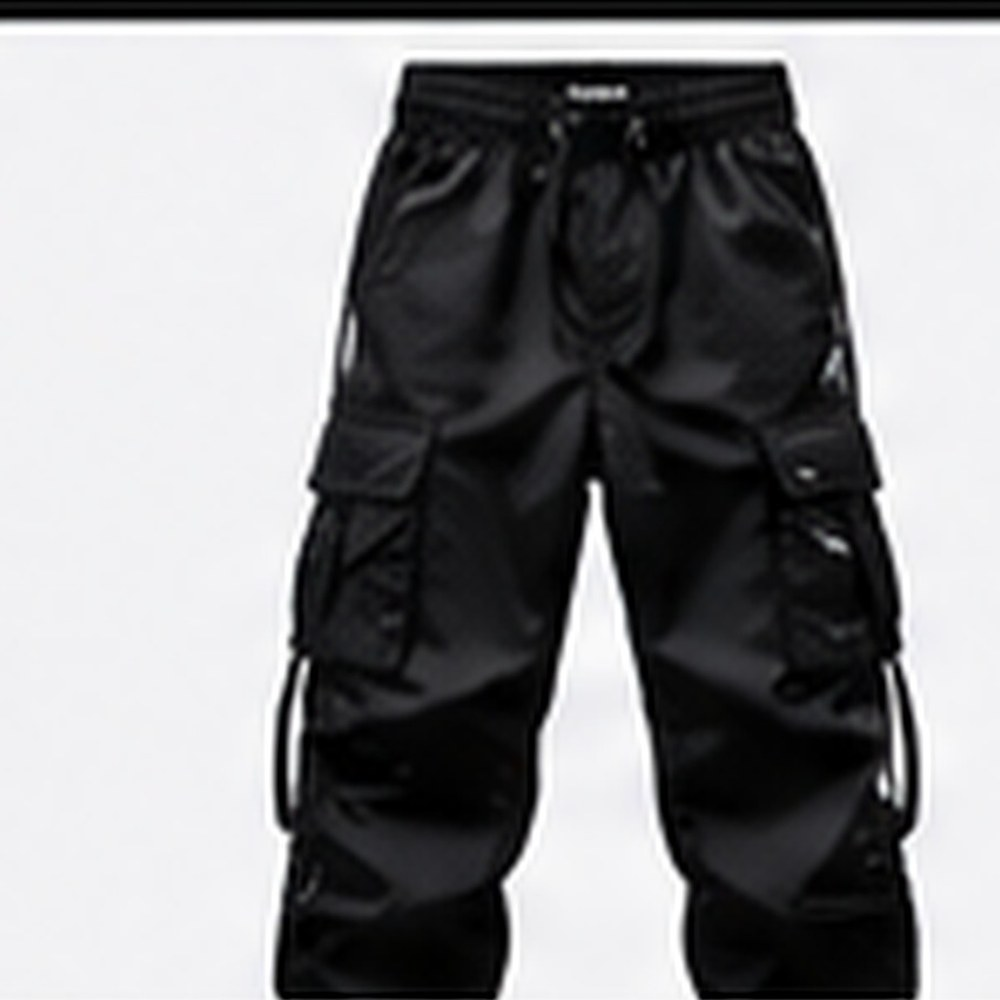
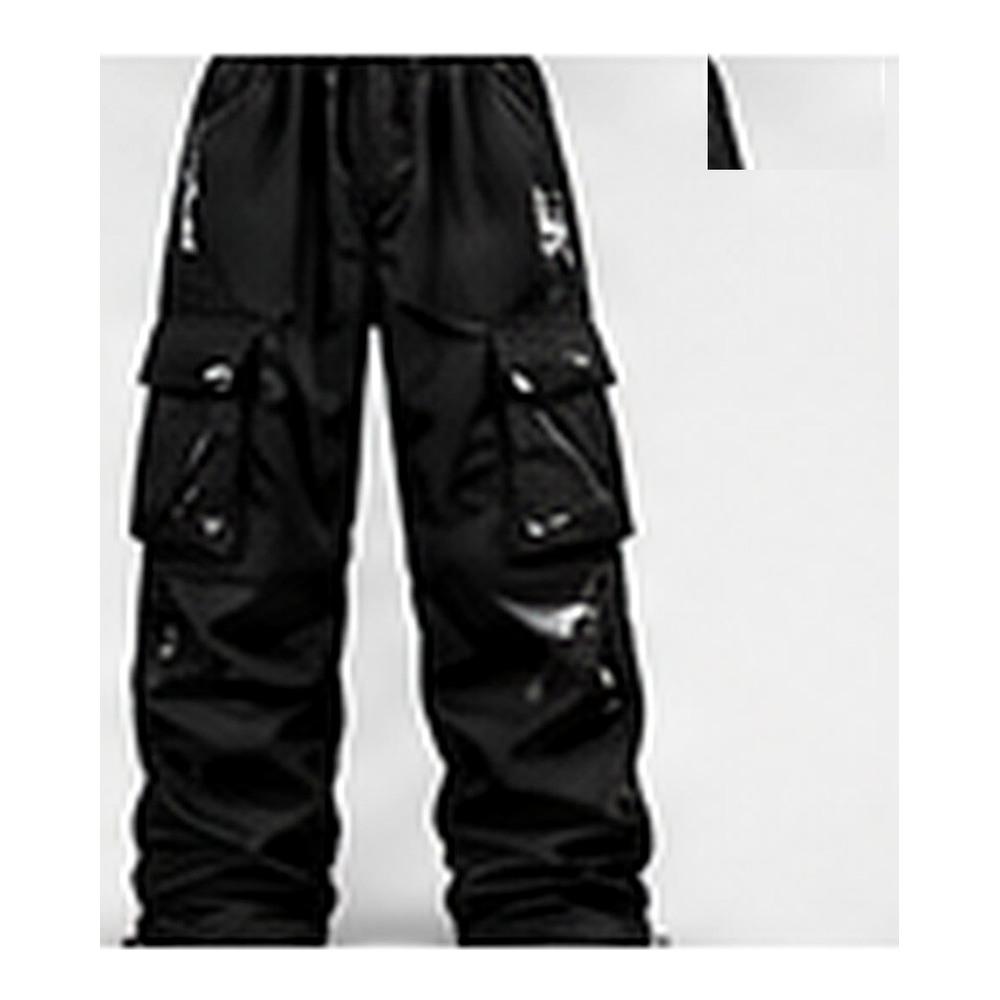
Add files via upload

diff --git a/css/styles.css b/css/styles.css
@@ -1,2 +1,13 @@
-
-:root{--bg:#080a0f;--panel:#111722;--text:#f7f8fb;--muted:#a8b0bf;--line:rgba(255,255,255,.09);--cyan:#00d9ff;--violet:#7c3cff;--pink:#e83cff;--max:1240px}*{box-sizing:border-box}html{scroll-behavior:smooth}body{margin:0;background:var(--bg);color:var(--text);font-family:Inter,system-ui,-apple-system,Segoe UI,sans-serif;line-height:1.5}a{color:inherit;text-decoration:none}button,input,select,textarea{font:inherit}button{cursor:pointer}img{display:block;max-width:100%}.container{width:min(var(--max),calc(100% - 36px));margin:auto}.topbar{background:#05070a;border-bottom:1px solid var(--line);font-size:12px;color:#dce2eb}.topbar .container{display:flex;justify-content:space-between;gap:20px;padding:9px 0}.header{position:sticky;top:0;z-index:30;background:rgba(8,10,15,.94);backdrop-filter:blur(16px);border-bottom:1px solid var(--line)}.header-main{display:grid;grid-template-columns:220px 1fr 330px;gap:18px;align-items:center;min-height:76px}.brand img{width:185px}.nav{display:flex;gap:18px;justify-content:center;font-size:13px;font-weight:800}.nav a{padding:28px 0;position:relative}.nav a.active:after{content:"";position:absolute;left:0;right:0;bottom:18px;height:2px;background:linear-gradient(90deg,var(--cyan),var(--violet),var(--pink))}.header-tools{display:flex;gap:8px;justify-content:flex-end;align-items:center}.search{height:42px;border:1px solid var(--line);background:#11151d;border-radius:11px;display:flex;align-items:center;padding:0 11px;min-width:185px}.search input{background:none;border:0;outline:0;color:#fff;width:100%;font-size:12px}.icon-btn{width:40px;height:40px;border:1px solid var(--line);border-radius:11px;background:#11151d;color:#fff;display:grid;place-items:center;position:relative}.count{position:absolute;right:-4px;top:-5px;min-width:17px;height:17px;border-radius:99px;background:var(--pink);font-size:10px;display:grid;place-items:center}.mobile-toggle{display:none}.hero{min-height:570px;position:relative;overflow:hidden}.hero:before{content:"";position:absolute;inset:0;background:linear-gradient(90deg,rgba(4,6,10,.96),rgba(4,6,10,.64) 42%,rgba(4,6,10,.15)),url("../assets/images/hero/hero.jpg") 68% center/cover}.hero .container{position:relative;padding:105px 0 65px}.eyebrow{letter-spacing:.24em;text-transform:uppercase;color:var(--cyan);font-size:11px;font-weight:900}.hero h1{font-size:clamp(48px,7vw,86px);line-height:.92;margin:14px 0 18px;max-width:720px;text-transform:uppercase;letter-spacing:-.045em}.gradient-text{background:linear-gradient(90deg,#fff,var(--cyan),var(--violet),var(--pink));-webkit-background-clip:text;background-clip:text;color:transparent}.hero p{font-size:18px;color:#d4dbe6;max-width:570px}.actions{display:flex;gap:10px;flex-wrap:wrap;margin-top:24px}.btn{border:1px solid transparent;padding:12px 18px;border-radius:11px;font-weight:850;display:inline-flex;align-items:center;justify-content:center;gap:8px}.btn-primary{background:#fff;color:#07090d}.btn-dark{background:#10141c;border-color:#556071}.btn-accent{background:linear-gradient(90deg,var(--cyan),var(--violet));color:#fff}.benefits{background:#090c12;border-bottom:1px solid var(--line);border-top:1px solid var(--line)}.benefits-grid{display:grid;grid-template-columns:repeat(4,1fr)}.benefit{padding:17px;border-right:1px solid var(--line);display:flex;gap:10px;align-items:center}.benefit:last-child{border-right:0}.benefit strong{display:block;font-size:13px}.benefit small{color:var(--muted)}.section{padding:68px 0}.section-head{display:flex;justify-content:space-between;align-items:end;gap:20px;margin-bottom:23px}.section-head h2{font-size:34px;line-height:1.05;margin:7px 0}.section-head p{color:var(--muted);margin:0}.category-grid{display:grid;grid-template-columns:repeat(6,1fr);gap:12px}.category-card{height:150px;border:1px solid var(--line);border-radius:15px;overflow:hidden;position:relative;background:#11151d}.category-card img{width:100%;height:100%;object-fit:contain;object-position:center center;padding:10px 12px 28px;background:#fff}.category-card:after{content:"";position:absolute;inset:0;background:linear-gradient(transparent 30%,rgba(0,0,0,.92))}.category-card div{position:absolute;left:13px;bottom:12px;z-index:1}.category-card strong{display:block}.category-card small{color:#cbd2de}.product-grid{display:grid;grid-template-columns:repeat(4,1fr);gap:15px}.product-card{background:#f4f5f7;color:#101319;border-radius:15px;overflow:hidden}.product-media{height:300px;background:#fff;position:relative;display:grid;place-items:center}.product-media img{width:100%;height:100%;object-fit:contain;object-position:center center;padding:20px 24px}.badge{position:absolute;z-index:1;left:11px;top:11px;background:#090c12;color:#fff;border-radius:6px;padding:5px 7px;font-size:9px;font-weight:900;text-transform:uppercase}.wish{position:absolute;z-index:2;right:10px;top:10px;width:34px;height:34px;border:0;border-radius:50%;background:#fff;box-shadow:0 5px 16px rgba(0,0,0,.14)}.product-info{padding:13px}.product-cat{font-size:10px;text-transform:uppercase;color:#7136dc;font-weight:900;letter-spacing:.08em}.product-name{font-weight:850;font-size:15px;margin:4px 0}.stars{color:#f2a900;font-size:12px}.price{font-size:18px;font-weight:900;margin:5px 0 11px}.card-actions{display:grid;grid-template-columns:1fr 1fr;gap:7px}.card-actions .btn,.card-actions button{border:0;border-radius:9px;padding:9px;font-weight:850}.view-btn{background:#0b0f16;color:#fff}.add-btn{background:linear-gradient(90deg,#138aff,#7c3cff);color:#fff}.promo-grid{display:grid;grid-template-columns:1fr 1fr;gap:15px}.promo{height:280px;position:relative;border-radius:16px;overflow:hidden}.promo img{width:100%;height:100%;object-fit:cover}.promo:after{content:"";position:absolute;inset:0;background:linear-gradient(90deg,rgba(4,6,10,.94),rgba(4,6,10,.2))}.promo-content{position:absolute;z-index:1;inset:0;padding:30px;display:flex;flex-direction:column;justify-content:end}.promo h3{font-size:31px;margin:4px 0}.promo p{color:#d0d7e2;max-width:420px}.newsletter{background:#101621;border:1px solid var(--line);border-radius:18px;padding:40px;display:grid;grid-template-columns:1fr 1fr;gap:25px;align-items:center}.newsletter h2{font-size:32px;margin:0}.newsletter p{color:var(--muted)}.newsletter-form{display:flex;gap:8px}.newsletter-form input{flex:1;background:#0a0d13;border:1px solid var(--line);color:#fff;border-radius:10px;padding:12px}.footer{background:#05070a;border-top:1px solid var(--line);padding:55px 0 24px}.footer-grid{display:grid;grid-template-columns:1.5fr repeat(4,1fr);gap:25px}.footer h4{margin:0 0 11px}.footer a{display:block;color:#a6afbd;margin:7px 0;font-size:13px}.footer-brand p{color:#8e98a8;max-width:320px}.footer-bottom{margin-top:40px;padding-top:17px;border-top:1px solid var(--line);display:flex;justify-content:space-between;color:#788292;font-size:12px}.page-hero{padding:70px 0 50px;background:radial-gradient(circle at 80% 25%,rgba(124,60,255,.2),transparent 30%),linear-gradient(180deg,#0d1119,#080a0f)}.page-hero h1{font-size:clamp(42px,6vw,70px);margin:0 0 10px}.page-hero p{color:var(--muted);max-width:720px}.shop-layout{display:grid;grid-template-columns:230px 1fr;gap:22px}.filters{background:#0e1219;border:1px solid var(--line);border-radius:15px;padding:17px;height:max-content;position:sticky;top:96px}.filters h3{margin-top:0}.filter-group{padding:14px 0;border-top:1px solid var(--line)}.shop-toolbar{display:flex;justify-content:space-between;align-items:center;margin-bottom:15px}.shop-toolbar select,.filters select,.filters input{background:#0b0f15;color:#fff;border:1px solid var(--line);border-radius:9px;padding:10px;width:100%}.shop-toolbar select{width:auto}.detail{display:grid;grid-template-columns:1.05fr .95fr;gap:38px}.detail-media{background:#fff;border-radius:18px;min-height:560px;display:grid;place-items:center;overflow:hidden}.detail-media img{width:100%;height:100%;object-fit:contain;padding:25px}.detail-info h1{font-size:45px;line-height:1.02;margin:7px 0}.detail-price{font-size:31px;font-weight:900}.detail-copy{color:#b3bcc9}.choice{background:#10141c;border:1px solid var(--line);color:#fff;border-radius:8px;padding:8px 12px}.choice.selected{border-color:var(--cyan);box-shadow:0 0 0 1px var(--cyan) inset}.size-grid,.color-grid{display:flex;gap:7px;flex-wrap:wrap}.detail-actions{display:flex;gap:9px;margin:24px 0}.qty{display:flex;border:1px solid var(--line);border-radius:9px;overflow:hidden}.qty button{width:38px;background:#10141c;color:#fff;border:0}.qty span{min-width:38px;display:grid;place-items:center}.notice{padding:13px;border-radius:10px;background:rgba(0,217,255,.07);border:1px solid rgba(0,217,255,.18);color:#d1f7ff}.prose{max-width:900px}.prose h2{font-size:29px;margin-top:38px}.prose p,.prose li{color:#b5bdca}.faq-item{border-top:1px solid var(--line);padding:17px 0}.faq-item summary{cursor:pointer;font-weight:800}.form-grid{display:grid;grid-template-columns:1fr 1fr;gap:14px}.field{display:flex;flex-direction:column;gap:6px}.field.full{grid-column:1/-1}.field input,.field textarea,.field select{background:#0e1219;border:1px solid var(--line);color:#fff;border-radius:9px;padding:11px}.field textarea{min-height:140px;resize:vertical}.cart-drawer{position:fixed;inset:0;z-index:80;pointer-events:none}.cart-backdrop{position:absolute;inset:0;background:rgba(0,0,0,.65);opacity:0;transition:.2s}.cart-panel{position:absolute;right:0;top:0;height:100%;width:min(430px,100%);background:#0c1017;border-left:1px solid var(--line);transform:translateX(100%);transition:.2s;padding:20px;display:flex;flex-direction:column}.cart-drawer.open{pointer-events:auto}.cart-drawer.open .cart-backdrop{opacity:1}.cart-drawer.open .cart-panel{transform:none}.cart-head{display:flex;justify-content:space-between;align-items:center}.cart-items{overflow:auto;flex:1}.cart-item{display:grid;grid-template-columns:65px 1fr auto;gap:9px;padding:11px 0;border-bottom:1px solid var(--line)}.cart-item img{width:65px;height:65px;object-fit:contain;background:#fff;border-radius:8px}.cart-item small{display:block;color:#9099a9}.empty{text-align:center;padding:50px 10px;color:#8f98a8}.cart-total{border-top:1px solid var(--line);padding-top:15px}.toast{position:fixed;right:18px;bottom:18px;z-index:100;background:#101722;border:1px solid var(--line);padding:12px 15px;border-radius:10px;opacity:0;transform:translateY(15px);transition:.2s}.toast.show{opacity:1;transform:none}@media(max-width:1050px){.header-main{grid-template-columns:190px 1fr 250px}.nav{gap:10px}.product-grid{grid-template-columns:repeat(3,1fr)}.category-grid{grid-template-columns:repeat(3,1fr)}}@media(max-width:850px){.header-main{grid-template-columns:1fr auto}.nav{display:none}.header-tools .search{display:none}.mobile-toggle{display:grid}.header.mobile-open .nav{display:flex;position:absolute;left:0;right:0;top:76px;background:#080a0f;padding:13px 18px;flex-direction:column;border-bottom:1px solid var(--line)}.header.mobile-open .nav a{padding:9px}.benefits-grid{grid-template-columns:repeat(2,1fr)}.detail{grid-template-columns:1fr}.shop-layout{grid-template-columns:1fr}.filters{position:static}.newsletter{grid-template-columns:1fr}.promo-grid{grid-template-columns:1fr}.footer-grid{grid-template-columns:1fr 1fr}}@media(max-width:560px){.container{width:calc(100% - 24px)}.topbar .container{font-size:10px}.topbar .container span:last-child{display:none}.brand img{width:150px}.header-main{min-height:68px}.header.mobile-open .nav{top:68px}.product-grid{grid-template-columns:repeat(2,1fr);gap:9px}.product-media{height:195px}.product-info{padding:9px}.product-name{font-size:12px}.price{font-size:15px}.card-actions{grid-template-columns:1fr}.category-grid{grid-template-columns:repeat(2,1fr)}.category-card{height:125px}.hero h1{font-size:45px}.hero p{font-size:15px}.benefits-grid{grid-template-columns:1fr}.section{padding:48px 0}.section-head h2{font-size:28px}.form-grid{grid-template-columns:1fr}.field.full{grid-column:auto}.footer-grid{grid-template-columns:1fr}.footer-bottom{flex-direction:column;gap:7px}.newsletter{padding:25px}.newsletter-form{flex-direction:column}.detail-info h1{font-size:34px}.detail-media{min-height:390px}}
+@import url('https://fonts.googleapis.com/css2?family=Manrope:wght@400;500;600;700;800&family=Source+Serif+4:wght@600;700&display=swap');
+:root{--bg:#f5f4f0;--paper:#fff;--ink:#101714;--muted:#66706b;--line:#dfe2dc;--dark:#10201d;--dark2:#182b27;--cyan:#00b9e8;--purple:#7447ff;--accent:linear-gradient(110deg,#00b9e8,#7447ff);--radius:24px;--shadow:0 18px 50px rgba(16,32,29,.10)}
+*{box-sizing:border-box}html{scroll-behavior:smooth}body{margin:0;background:var(--bg);color:var(--ink);font-family:Manrope,system-ui,sans-serif;line-height:1.6}a{color:inherit}.container{width:min(1380px,calc(100% - 56px));margin:auto}.topbar{background:var(--dark);color:#d7e4df;font-size:.74rem;letter-spacing:.03em}.topbar .container{display:flex;justify-content:space-between;gap:20px;padding:9px 0}.header{position:sticky;top:0;z-index:50;background:rgba(245,244,240,.94);backdrop-filter:blur(16px);border-bottom:1px solid rgba(16,23,20,.08)}.header-main{min-height:78px;display:grid;grid-template-columns:170px 1fr auto;gap:24px;align-items:center}.brand{display:flex;align-items:center;text-decoration:none}.brand img{width:148px;height:54px;object-fit:contain;mix-blend-mode:multiply}.nav{display:flex;justify-content:center;gap:20px}.nav a{font-size:.84rem;text-decoration:none;color:#46504b;font-weight:700}.nav a:hover,.nav a.active{color:var(--ink)}.header-tools{display:flex;align-items:center;gap:8px}.search{height:42px;display:flex;align-items:center;gap:8px;border:1px solid var(--line);background:#fff;border-radius:999px;padding:0 13px;color:#68736e}.search input{border:0;outline:0;background:transparent;width:145px;font:inherit;font-size:.78rem}.icon-btn{border:1px solid var(--line);background:#fff;color:var(--ink);height:42px;min-width:42px;border-radius:999px;display:inline-grid;place-items:center;text-decoration:none;cursor:pointer}.count{font-size:.65rem;background:var(--dark);color:#fff;border-radius:999px;padding:2px 5px;margin-left:-13px;margin-top:-24px}.mobile-toggle{display:none}
+.hero{min-height:720px;display:flex;align-items:end;position:relative;overflow:hidden;background:#101817 url('../images/hero/hero.jpg') center/cover no-repeat}.hero:after{content:"";position:absolute;inset:0;background:linear-gradient(90deg,rgba(8,18,16,.86) 0%,rgba(8,18,16,.55) 42%,rgba(8,18,16,.12) 75%),linear-gradient(0deg,rgba(8,18,16,.55),transparent 55%)}.hero .container{position:relative;z-index:1;padding:105px 0 90px;color:#fff;max-width:1380px}.eyebrow{font-size:.7rem;letter-spacing:.20em;font-weight:800;color:#59635f}.hero .eyebrow{color:#9defff}.hero h1{font-family:"Source Serif 4",serif;font-size:clamp(4rem,7.8vw,8.2rem);line-height:.93;letter-spacing:-.055em;max-width:850px;margin:18px 0 24px}.gradient-text{background:var(--accent);-webkit-background-clip:text;background-clip:text;color:transparent}.hero p{max-width:650px;font-size:1.12rem;color:#d6e3df;margin:0 0 30px}.actions{display:flex;gap:10px;flex-wrap:wrap}.btn{border:0;border-radius:999px;padding:13px 19px;font-weight:800;text-decoration:none;display:inline-flex;align-items:center;justify-content:center;cursor:pointer;font:inherit}.btn-primary,.btn-accent{background:var(--accent);color:#fff;box-shadow:0 10px 24px rgba(71,73,255,.20)}.btn-dark{background:var(--dark);color:#fff}.hero .btn-dark{background:rgba(255,255,255,.12);border:1px solid rgba(255,255,255,.32);backdrop-filter:blur(8px)}
+.benefits{background:#fff;border-bottom:1px solid var(--line)}.benefits-grid{display:grid;grid-template-columns:repeat(4,1fr)}.benefit{padding:22px 20px;border-right:1px solid var(--line);display:flex;gap:12px;align-items:center}.benefit:last-child{border-right:0}.benefit b{width:38px;height:38px;border-radius:50%;background:#e9f7f4;display:grid;place-items:center;color:#0e7366}.benefit strong{display:block;font-size:.83rem}.benefit small{color:var(--muted);font-size:.72rem}
+.section{padding:105px 0}.section-head{display:flex;justify-content:space-between;gap:40px;align-items:end;margin-bottom:30px}.section-head h2{font-family:"Source Serif 4",serif;font-size:clamp(2.7rem,5vw,5rem);line-height:1.02;letter-spacing:-.04em;margin:8px 0 12px}.section-head p{color:var(--muted);max-width:650px}.section-head>a{font-weight:800;text-decoration:none;white-space:nowrap}.category-grid{display:grid;grid-template-columns:repeat(6,1fr);gap:12px}.category-card{position:relative;min-height:210px;border-radius:var(--radius);overflow:hidden;background:#111;border:1px solid #202622;text-decoration:none;isolation:isolate}.category-card img{width:100%;height:100%;object-fit:contain;background:#fff;display:block;transition:transform .4s ease}.category-card:after{content:"";position:absolute;inset:40% 0 0;background:linear-gradient(0deg,rgba(8,15,13,.86),transparent)}.category-card:hover img{transform:scale(1.035)}.category-card>div{position:absolute;z-index:2;left:17px;right:17px;bottom:15px;color:#fff}.category-card strong{display:block;font-size:.92rem}.category-card small{font-size:.7rem;color:#dce7e3}
+.product-grid{display:grid;grid-template-columns:repeat(4,1fr);gap:14px}.product-card{background:var(--paper);border:1px solid var(--line);border-radius:var(--radius);overflow:hidden;display:flex;flex-direction:column;min-width:0;box-shadow:0 8px 28px rgba(16,32,29,.04)}.product-media{position:relative;aspect-ratio:1/1;background:#fff;border-bottom:1px solid var(--line);overflow:hidden;padding:10px}.product-media img{display:block;width:100%;height:100%;object-fit:contain;object-position:center;background:#fff}.badge{position:absolute;z-index:3;top:12px;left:12px;background:var(--dark);color:#fff;border-radius:7px;padding:4px 7px;font-size:.58rem;font-weight:800;letter-spacing:.03em}.wish{position:absolute;z-index:4;top:10px;right:10px;width:34px;height:34px;border:0;border-radius:50%;background:#fff;box-shadow:0 7px 20px rgba(0,0,0,.10);cursor:pointer;color:#1a2723;font-size:1rem}.product-info{padding:16px;display:flex;flex-direction:column;gap:5px;flex:1}.product-cat{font-size:.63rem;color:#6546df;text-transform:uppercase;font-weight:800;letter-spacing:.08em}.product-name{font-weight:800;font-size:.94rem}.stars{color:#f4a300;font-size:.72rem;letter-spacing:.03em}.price{font-weight:900;font-size:1.08rem;margin-top:2px}.card-actions{display:grid;grid-template-columns:1fr 1fr;gap:7px;margin-top:8px}.card-actions .btn,.add-btn{border-radius:9px;padding:10px 8px;font-size:.74rem}.view-btn{background:var(--dark);color:#fff}.add-btn{border:0;background:var(--accent);color:#fff;font-weight:800;cursor:pointer}
+.promo-grid{display:grid;grid-template-columns:1fr 1fr;gap:14px}.promo{min-height:430px;border-radius:var(--radius);overflow:hidden;position:relative;background:#0d1715;color:#fff}.promo img{position:absolute;inset:0;width:100%;height:100%;object-fit:cover}.promo:after{content:"";position:absolute;inset:0;background:linear-gradient(90deg,rgba(8,16,14,.82),rgba(8,16,14,.08))}.promo-content{position:relative;z-index:2;padding:38px;max-width:530px;display:flex;flex-direction:column;justify-content:end;height:100%}.promo-content .eyebrow{color:#8fe9db}.promo-content h3{font-family:"Source Serif 4",serif;font-size:3rem;line-height:1;margin:8px 0 14px}.promo-content p{color:#d5e1dd}.newsletter{background:var(--dark);color:#fff;border-radius:32px;padding:55px 60px;display:grid;grid-template-columns:1fr .8fr;gap:50px;align-items:center}.newsletter h2{font-family:"Source Serif 4",serif;font-size:clamp(2.8rem,5vw,4.8rem);line-height:1;margin:8px 0}.newsletter p{color:#bfd0ca}.newsletter-form{display:flex;gap:8px}.newsletter-form input{min-width:0;flex:1;border:1px solid #49625b;background:#17302b;color:#fff;border-radius:999px;padding:14px 17px;font:inherit;outline:0}.newsletter-form input::placeholder{color:#a8bab4}
+.page-hero{padding:100px 0 30px}.page-hero h1{font-family:"Source Serif 4",serif;font-size:clamp(3.8rem,7vw,7rem);line-height:.94;letter-spacing:-.055em;margin:14px 0}.page-hero p{max-width:700px;color:var(--muted);font-size:1.08rem}.shop-layout{display:grid;grid-template-columns:230px 1fr;gap:34px}.filters{align-self:start;background:#fff;border:1px solid var(--line);border-radius:20px;padding:22px;position:sticky;top:105px}.filters h3{font-family:"Source Serif 4",serif;font-size:1.7rem;margin-top:0}.filter-group{display:grid;gap:7px;margin-top:16px}.filter-group label{font-size:.72rem;font-weight:800;color:#5b655f}.filter-group input,.filter-group select,.shop-toolbar select{border:1px solid var(--line);background:#fff;border-radius:10px;padding:11px;font:inherit}.shop-toolbar{display:flex;justify-content:space-between;align-items:center;margin-bottom:14px}.detail{display:grid;grid-template-columns:1.05fr .95fr;gap:6vw;align-items:start}.detail-media{background:#fff;border:1px solid var(--line);border-radius:28px;aspect-ratio:1/1;overflow:hidden;padding:25px;box-shadow:var(--shadow)}.detail-media img{width:100%;height:100%;object-fit:contain}.detail-info{padding:15px 0}.detail-name{font-family:"Source Serif 4",serif;font-size:clamp(3rem,5vw,5.4rem);line-height:.98;letter-spacing:-.05em;margin:8px 0 16px}.detail-price{font-weight:900;font-size:1.7rem;margin:10px 0}.detail-copy{color:var(--muted);max-width:650px}.size-grid,.color-grid{display:flex;flex-wrap:wrap;gap:7px}.choice{border:1px solid var(--line);background:#fff;border-radius:10px;padding:9px 13px;cursor:pointer}.choice.selected{background:var(--dark);color:#fff;border-color:var(--dark)}.detail-actions{display:flex;gap:10px;align-items:center;margin:25px 0}.qty{display:flex;align-items:center;border:1px solid var(--line);border-radius:10px;background:#fff}.qty button{border:0;background:transparent;width:38px;height:44px;font-size:1.1rem;cursor:pointer}.qty span{min-width:34px;text-align:center}.notice{background:#edf6f3;border:1px solid #d2e6df;color:#31524a;border-radius:12px;padding:12px;font-size:.78rem}.shop-layout .product-grid{grid-template-columns:repeat(3,1fr)}
+.footer{background:var(--dark);color:#edf5f1;margin-top:100px;padding:80px 0 24px}.footer-grid{display:grid;grid-template-columns:1.6fr repeat(4,1fr);gap:38px;padding-bottom:55px;border-bottom:1px solid #355149}.footer-brand p{max-width:390px;color:#b8cbc4}.footer-grid h4{margin-top:0}.footer-grid a{display:block;text-decoration:none;color:#c3d1cc;margin:7px 0;font-size:.84rem}.footer-bottom{display:flex;justify-content:space-between;gap:20px;flex-wrap:wrap;padding-top:18px;color:#9eb3ab;font-size:.72rem}.cart-drawer{position:fixed;inset:0;z-index:100;pointer-events:none}.cart-drawer.open{pointer-events:auto}.cart-backdrop{position:absolute;inset:0;background:rgba(0,0,0,.35);opacity:0;transition:.2s}.cart-drawer.open .cart-backdrop{opacity:1}.cart-panel{position:absolute;right:0;top:0;height:100%;width:min(430px,100%);background:#fff;transform:translateX(100%);transition:.25s;display:flex;flex-direction:column;box-shadow:-20px 0 60px rgba(0,0,0,.16)}.cart-drawer.open .cart-panel{transform:none}.cart-head{padding:20px;border-bottom:1px solid var(--line);display:flex;justify-content:space-between;align-items:center}.cart-head h2{font-family:"Source Serif 4",serif;font-size:2rem;margin:0}.cart-items{padding:18px;overflow:auto;flex:1}.cart-item{display:grid;grid-template-columns:68px 1fr auto;gap:12px;align-items:center;border-bottom:1px solid var(--line);padding:12px 0}.cart-item img{width:68px;height:68px;object-fit:contain;background:#fff;border:1px solid var(--line);border-radius:10px}.cart-item small{display:block;color:var(--muted)}.empty{text-align:center;padding:50px 10px;color:var(--muted)}.cart-total{padding:18px;border-top:1px solid var(--line)}.toast{position:fixed;right:24px;bottom:24px;z-index:130;background:var(--dark);color:#fff;padding:12px 17px;border-radius:999px;box-shadow:var(--shadow);transform:translateY(100px);opacity:0;transition:.25s}.toast.show{transform:none;opacity:1}
+@media(max-width:1100px){.header-main{grid-template-columns:150px 1fr auto}.nav{gap:12px}.nav a{font-size:.75rem}.category-grid{grid-template-columns:repeat(3,1fr)}.product-grid,.shop-layout .product-grid{grid-template-columns:repeat(2,1fr)}.benefits-grid{grid-template-columns:repeat(2,1fr)}.benefit:nth-child(2){border-right:0}.benefit:nth-child(-n+2){border-bottom:1px solid var(--line)}.footer-grid{grid-template-columns:repeat(3,1fr)}.detail{grid-template-columns:1fr}.newsletter{grid-template-columns:1fr}}
+@media(max-width:800px){.container{width:min(100% - 30px,1380px)}.topbar .container span:last-child{display:none}.header-main{grid-template-columns:1fr auto}.nav{display:none}.header.mobile-open .nav{display:flex;position:absolute;left:15px;right:15px;top:78px;background:#fff;border:1px solid var(--line);border-radius:18px;padding:14px;flex-direction:column;align-items:flex-start;box-shadow:var(--shadow)}.mobile-toggle{display:grid}.search{display:none}.hero{min-height:680px}.hero .container{padding:90px 0 65px}.hero h1{font-size:clamp(3.5rem,14vw,6rem)}.section{padding:78px 0}.section-head{display:block}.section-head>a{display:inline-block;margin-top:8px}.promo-grid{grid-template-columns:1fr}.newsletter{padding:40px 28px}.newsletter-form{flex-direction:column}.shop-layout{grid-template-columns:1fr}.filters{position:static}.detail-name{font-size:3.4rem}}
+@media(max-width:560px){.category-grid{grid-template-columns:repeat(2,1fr)}.product-grid,.shop-layout .product-grid{grid-template-columns:1fr 1fr;gap:9px}.product-info{padding:12px}.card-actions{grid-template-columns:1fr}.product-name{font-size:.82rem}.price{font-size:1rem}.benefits-grid{grid-template-columns:1fr}.benefit{border-right:0!important}.benefit:nth-child(3){border-bottom:1px solid var(--line)}.footer-grid{grid-template-columns:1fr 1fr}.footer-brand{grid-column:1/-1}.hero{min-height:620px}.hero .container{padding-bottom:50px}.hero p{font-size:.98rem}.promo-content{padding:28px}.promo-content h3{font-size:2.5rem}}

diff --git a/index.html b/index.html
@@ -1,1 +1,9 @@
-<!doctype html><html lang="en"><head><meta charset="utf-8"><meta name="viewport" content="width=device-width,initial-scale=1"><title>URBANEON · URBANEON</title><meta name="description" content="URBANEON modern streetwear, sneakers and accessories."><link rel="icon" href="favicon.svg"><link rel="manifest" href="site.webmanifest"><link rel="stylesheet" href="css/styles.css"></head><body data-page="home"><div class="topbar"><div class="container"><span>Free shipping on orders over $75 · Easy returns · 24/7 support</span><span>Chicago, IL · USD · Track Order</span></div></div><header class="header"><div class="container header-main"><a class="brand" href="index.html"><img src="assets/images/brand/urbaneon-logo.jpg" alt="URBANEON"></a><nav class="nav"><a class="active" href="index.html">Home</a><a class="" href="shop.html">Shop</a><a class="" href="collections.html">Collections</a><a class="" href="new-drops.html">New Drops</a><a class="" href="lookbook.html">Lookbook</a><a class="" href="guides.html">Guides</a><a class="" href="about.html">About</a><a class="" href="support.html">Support</a></nav><div class="header-tools"><div class="search">⌕<input placeholder="Search products..." onkeydown="if(event.key==='Enter')location.href='shop.html?query='+encodeURIComponent(this.value)"></div><button class="icon-btn mobile-toggle">☰</button><a class="icon-btn" href="shop.html">◯</a><button class="icon-btn open-cart">🛒<span class="count cart-count">0</span></button></div></div></header><main><section class="hero"><div class="container"><div class="eyebrow">URBANEON · CITY ESSENTIALS</div><h1>Streetwear <span class="gradient-text">for real life.</span></h1><p>Modern apparel, sneakers and accessories built for everyday city living. Express your style, your way.</p><div class="actions"><a class="btn btn-primary" href="new-drops.html">Shop New Drops →</a><a class="btn btn-dark" href="collections.html">Explore Collections</a></div></div></section><section class="benefits"><div class="container benefits-grid"><div class="benefit"><b>🚚</b><div><strong>Free Shipping</strong><small>Orders over $75</small></div></div><div class="benefit"><b>↩</b><div><strong>Easy Returns</strong><small>30-day policy</small></div></div><div class="benefit"><b>✓</b><div><strong>Secure Payments</strong><small>Protected checkout</small></div></div><div class="benefit"><b>◉</b><div><strong>24/7 Support</strong><small>We're here to help</small></div></div></div></section><section class="section"><div class="container"><div class="section-head"><div><div class="eyebrow">SHOP THE LOOK</div><h2>Built for your rotation.</h2><p>Explore the pieces that define the URBANEON city uniform.</p></div><a href="shop.html">View all products →</a></div><div class="category-grid"><a class="category-card" href="shop.html"><img src="assets/images/products/p01.jpg" alt="Hoodies"><div><strong>Hoodies</strong><small>Shop collection →</small></div></a><a class="category-card" href="shop.html"><img src="assets/images/products/p02.jpg" alt="Sneakers"><div><strong>Sneakers</strong><small>Shop collection →</small></div></a><a class="category-card" href="shop.html"><img src="assets/images/products/p03.jpg" alt="Pants"><div><strong>Pants</strong><small>Shop collection →</small></div></a><a class="category-card" href="shop.html"><img src="assets/images/products/p04.jpg" alt="T-Shirts"><div><strong>T-Shirts</strong><small>Shop collection →</small></div></a><a class="category-card" href="shop.html"><img src="assets/images/products/p05.jpg" alt="Accessories"><div><strong>Accessories</strong><small>Shop collection →</small></div></a><a class="category-card" href="shop.html"><img src="assets/images/products/p06.jpg" alt="Accessories"><div><strong>Accessories</strong><small>Shop collection →</small></div></a></div></div></section><section class="section" style="padding-top:5px"><div class="container"><div class="section-head"><div><div class="eyebrow">FEATURED PRODUCTS</div><h2>Popular this season.</h2><p>Handpicked essentials for the streets.</p></div><a href="shop.html">Shop everything →</a></div><div class="product-grid"></div></div></section><section class="section"><div class="container"><div class="promo-grid"><article class="promo"><img src="assets/images/editorial/city-essentials.jpg" alt="City essentials"><div class="promo-content"><div class="eyebrow">NEW COLLECTION</div><h3>City Essentials</h3><p>Layered fits, utility pieces and everyday staples built for movement.</p><a class="btn btn-primary" href="collections.html">Explore collection →</a></div></article><article class="promo"><img src="assets/images/editorial/sneaker-culture.jpg" alt="Sneaker culture"><div class="promo-content"><div class="eyebrow">SNEAKER CULTURE</div><h3>Step into the next level.</h3><p>Clean silhouettes and statement pairs for the everyday rotation.</p><a class="btn btn-primary" href="shop.html">Shop sneakers →</a></div></article></div></div></section><section class="section"><div class="container newsletter"><div><div class="eyebrow">STAY IN THE LOOP</div><h2>New drops. No noise.</h2><p>Get collection alerts, style guides and limited-release updates.</p></div><form class="newsletter-form"><input type="email" required placeholder="Your email address"><button class="btn btn-accent">Subscribe</button></form></div></section></main><footer class="footer"><div class="container"><div class="footer-grid"><div class="footer-brand"><img src="assets/images/brand/urbaneon-logo.jpg" alt="URBANEON" style="width:190px"><p>Modern streetwear for bold city living. Apparel, sneakers and accessories designed for everyday expression.</p></div><div><h4>Shop</h4><a href="shop.html">All Products</a><a href="new-drops.html">New Drops</a><a href="collections.html">Collections</a><a href="shop.html">Sneakers</a></div><div><h4>Explore</h4><a href="lookbook.html">Lookbook</a><a href="guides.html">Style Guides</a><a href="about.html">Our Story</a><a href="support.html">Support</a></div><div><h4>Customer</h4><a href="shipping.html">Shipping</a><a href="returns.html">Returns</a><a href="faq.html">FAQ</a><a href="contact.html">Contact</a></div><div><h4>Legal</h4><a href="privacy.html">Privacy</a><a href="terms.html">Terms</a><a href="accessibility.html">Accessibility</a></div></div><div class="footer-bottom"><span>© 2026 URBANEON. All rights reserved.</span><span>Built for the city. Designed to stand out.</span></div></div></footer><div class="cart-drawer"><div class="cart-backdrop"></div><aside class="cart-panel"><div class="cart-head"><h2>Your Cart</h2><button class="icon-btn close-cart">×</button></div><div class="cart-items"></div><div class="cart-total"><div style="display:flex;justify-content:space-between"><strong>Subtotal</strong><strong class="cart-total-value">$0.00</strong></div><p style="color:#9099aa;font-size:13px">Demo storefront — checkout is not connected.</p><a class="btn btn-accent" href="contact.html" style="width:100%">Continue to support</a></div></aside></div><div class="toast"></div><script src="js/site.js"></script></body></html>
+<!doctype html><html lang="en"><head><meta charset="utf-8"><meta name="viewport" content="width=device-width,initial-scale=1"><title>URBANEON · Streetwear for real life</title><meta name="description" content="URBANEON modern streetwear, sneakers, apparel and city essentials."><link rel="icon" href="favicon.svg"><link rel="manifest" href="site.webmanifest"><link rel="stylesheet" href="css/styles.css"></head><body data-page="home"><div class="topbar"><div class="container"><span>Free shipping on orders over $75 · Easy returns · 24/7 support</span><span>Chicago, IL · USD · Track Order</span></div></div><header class="header"><div class="container header-main"><a class="brand" href="index.html"><img src="assets/images/brand/urbaneon-logo.jpg" alt="URBANEON"></a><nav class="nav"><a class="active" href="index.html">Home</a><a href="shop.html">Shop</a><a href="collections.html">Collections</a><a href="new-drops.html">New Drops</a><a href="lookbook.html">Lookbook</a><a href="guides.html">Guides</a><a href="about.html">About</a><a href="support.html">Support</a></nav><div class="header-tools"><div class="search">⌕<input placeholder="Search products..." onkeydown="if(event.key==='Enter')location.href='shop.html?query='+encodeURIComponent(this.value)"></div><button class="icon-btn mobile-toggle">☰</button><a class="icon-btn" href="shop.html" aria-label="Shop">◯</a><button class="icon-btn open-cart" aria-label="Cart">🛒<span class="count cart-count">0</span></button></div></div></header><main>
+<section class="hero"><div class="container"><div class="eyebrow">URBANEON · CITY ESSENTIALS</div><h1>Streetwear <span class="gradient-text">for real life.</span></h1><p>Modern apparel, sneakers and accessories built around the pace of the city — clean silhouettes, utility pieces and statement details.</p><div class="actions"><a class="btn btn-primary" href="new-drops.html">Shop new drops →</a><a class="btn btn-dark" href="collections.html">Explore collections</a></div></div></section>
+<section class="benefits"><div class="container benefits-grid"><div class="benefit"><b>↗</b><div><strong>Free Shipping</strong><small>Orders over $75</small></div></div><div class="benefit"><b>↩</b><div><strong>Easy Returns</strong><small>30-day policy</small></div></div><div class="benefit"><b>✓</b><div><strong>Secure Checkout</strong><small>Demo storefront</small></div></div><div class="benefit"><b>●</b><div><strong>24/7 Support</strong><small>We're here to help</small></div></div></div></section>
+<section class="section"><div class="container"><div class="section-head"><div><div class="eyebrow">THE CITY UNIFORM</div><h2>Pieces that move with you.</h2><p>Explore the core categories behind the URBANEON everyday rotation.</p></div><a href="shop.html">View all products →</a></div><div class="category-grid"><a class="category-card" href="shop.html"><img src="assets/images/products/p01.jpg" alt="Hoodies"><div><strong>Hoodies</strong><small>Shop collection →</small></div></a><a class="category-card" href="shop.html"><img src="assets/images/products/p02.jpg" alt="Sneakers"><div><strong>Sneakers</strong><small>Shop collection →</small></div></a><a class="category-card" href="shop.html"><img src="assets/images/products/p09.jpg" alt="Pants"><div><strong>Pants</strong><small>Shop collection →</small></div></a><a class="category-card" href="shop.html"><img src="assets/images/products/p04.jpg" alt="T-Shirts"><div><strong>T-Shirts</strong><small>Shop collection →</small></div></a><a class="category-card" href="shop.html"><img src="assets/images/products/p11.jpg" alt="Headwear"><div><strong>Headwear</strong><small>Shop collection →</small></div></a><a class="category-card" href="shop.html"><img src="assets/images/products/p14.jpg" alt="Bags"><div><strong>Bags</strong><small>Shop collection →</small></div></a></div></div></section>
+<section class="section" style="padding-top:0"><div class="container"><div class="section-head"><div><div class="eyebrow">FEATURED ROTATION</div><h2>Popular this season.</h2><p>Handpicked essentials for everyday city wear.</p></div><a href="shop.html">Shop everything →</a></div><div class="product-grid"></div></div></section>
+<section class="section"><div class="container"><div class="promo-grid"><article class="promo"><img src="assets/images/editorial/city-essentials.jpg" alt="Urban streetwear editorial"><div class="promo-content"><div class="eyebrow">CITY ESSENTIALS</div><h3>Built for movement.</h3><p>Utility layers, relaxed fits and clean staples designed to work from morning streets to late nights.</p><a class="btn btn-primary" href="collections.html">Explore collection →</a></div></article><article class="promo"><img src="assets/images/editorial/sneaker-culture.jpg" alt="Sneaker culture editorial"><div class="promo-content"><div class="eyebrow">SNEAKER CULTURE</div><h3>Step into the next level.</h3><p>Statement pairs and everyday runners selected to keep the rotation fresh.</p><a class="btn btn-primary" href="shop.html">Shop sneakers →</a></div></article></div></div></section>
+<section class="section"><div class="container"><div class="section-head"><div><div class="eyebrow">THE URBANEON STANDARD</div><h2>Less noise. Better pieces.</h2></div><p>A storefront organized around the way people actually shop: clear categories, clean product presentation and straightforward support.</p></div><div class="benefits-grid" style="background:#fff;border:1px solid var(--line);border-radius:24px;overflow:hidden"><div class="benefit"><b>01</b><div><strong>Clean design</strong><small>Product-first presentation</small></div></div><div class="benefit"><b>02</b><div><strong>Everyday utility</strong><small>Fits built for movement</small></div></div><div class="benefit"><b>03</b><div><strong>Distinct details</strong><small>Neon accents without the noise</small></div></div><div class="benefit"><b>04</b><div><strong>Human support</strong><small>Questions answered clearly</small></div></div></div></div></section>
+<section class="section"><div class="container newsletter"><div><div class="eyebrow">STAY IN THE LOOP</div><h2>New drops. No noise.</h2><p>Get collection alerts, style guides and limited-release updates.</p></div><form class="newsletter-form"><input type="email" required placeholder="Your email address"><button class="btn btn-accent">Subscribe</button></form></div></section>
+</main><footer class="footer"><div class="container"><div class="footer-grid"><div class="footer-brand"><img src="assets/images/brand/urbaneon-logo.jpg" alt="URBANEON" style="width:190px;background:#fff;border-radius:10px"><p>Modern streetwear for bold city living. Apparel, sneakers and accessories designed for everyday expression.</p></div><div><h4>Shop</h4><a href="shop.html">All Products</a><a href="new-drops.html">New Drops</a><a href="collections.html">Collections</a><a href="shop.html">Sneakers</a></div><div><h4>Explore</h4><a href="lookbook.html">Lookbook</a><a href="guides.html">Style Guides</a><a href="about.html">Our Story</a><a href="support.html">Support</a></div><div><h4>Customer</h4><a href="shipping.html">Shipping</a><a href="returns.html">Returns</a><a href="faq.html">FAQ</a><a href="contact.html">Contact</a></div><div><h4>Legal</h4><a href="privacy.html">Privacy</a><a href="terms.html">Terms</a><a href="accessibility.html">Accessibility</a></div></div><div class="footer-bottom"><span>© 2026 URBANEON. All rights reserved.</span><span>Built for the city. Designed to stand out.</span></div></div></footer><div class="cart-drawer"><div class="cart-backdrop"></div><aside class="cart-panel"><div class="cart-head"><h2>Your Cart</h2><button class="icon-btn close-cart">×</button></div><div class="cart-items"></div><div class="cart-total"><div style="display:flex;justify-content:space-between"><strong>Subtotal</strong><strong class="cart-total-value">$0.00</strong></div><p style="color:#68736e;font-size:13px">Demo storefront — checkout is not connected.</p><a class="btn btn-accent" href="contact.html" style="width:100%">Continue to support</a></div></aside></div><div class="toast"></div><script src="js/site.js"></script></body></html>

diff --git a/CHANGELOG.md b/CHANGELOG.md
@@ -6,3 +6,10 @@
 - Reassigned affected products to clean product photography and reframed the remaining sneaker image.
 - Added clean Pexels photography for jacket, sunglasses and backpack entries.
 - Kept the approved URBANEON design, catalog structure and ecommerce interactions intact.
+
+
+## V4 — Reference-style rebuild
+- Reworked the storefront visual language around the supplied reference: editorial hero, trust strip, clean sections, generous whitespace and structured content blocks.
+- Rebuilt all 16 product image assets locally from the original product photography, removing embedded website UI and black screenshot rails.
+- Eliminated all remote product image dependencies.
+- Product cards now use a consistent white studio-style image stage with centered product photography.

diff --git a/README.md b/README.md
@@ -30,3 +30,6 @@ HTML5 · CSS3 · Vanilla JavaScript · JSON · SVG · GitHub Pages compatible
 Payment, inventory, authentication and fulfillment are not connected in this front-end demo.
 
 © 2026 URBANEON. All rights reserved.
+
+## V4 quality pass
+V4 follows the supplied reference store's editorial structure: strong hero, trust strip, spacious sections, structured cards, clear catalog hierarchy, and a dark utility footer. All sixteen product images are local, cleaned and centered; embedded screenshot UI has been removed from the product photography.

diff --git a/IMAGE-AUDIT-V4.md b/IMAGE-AUDIT-V4.md
@@ -1,0 +1,7 @@
+# URBANEON V4 — Image Audit
+
+- All 16 catalog images are local JPEG files.
+- No product image uses an external URL.
+- Screenshot UI elements, wishlist icons, sale badges, prices and black side rails were cropped out of the source product photography.
+- Product cards use `object-fit: contain` on a clean white image stage.
+- The catalog intentionally keeps realistic white-background product photography consistent across the collection.
